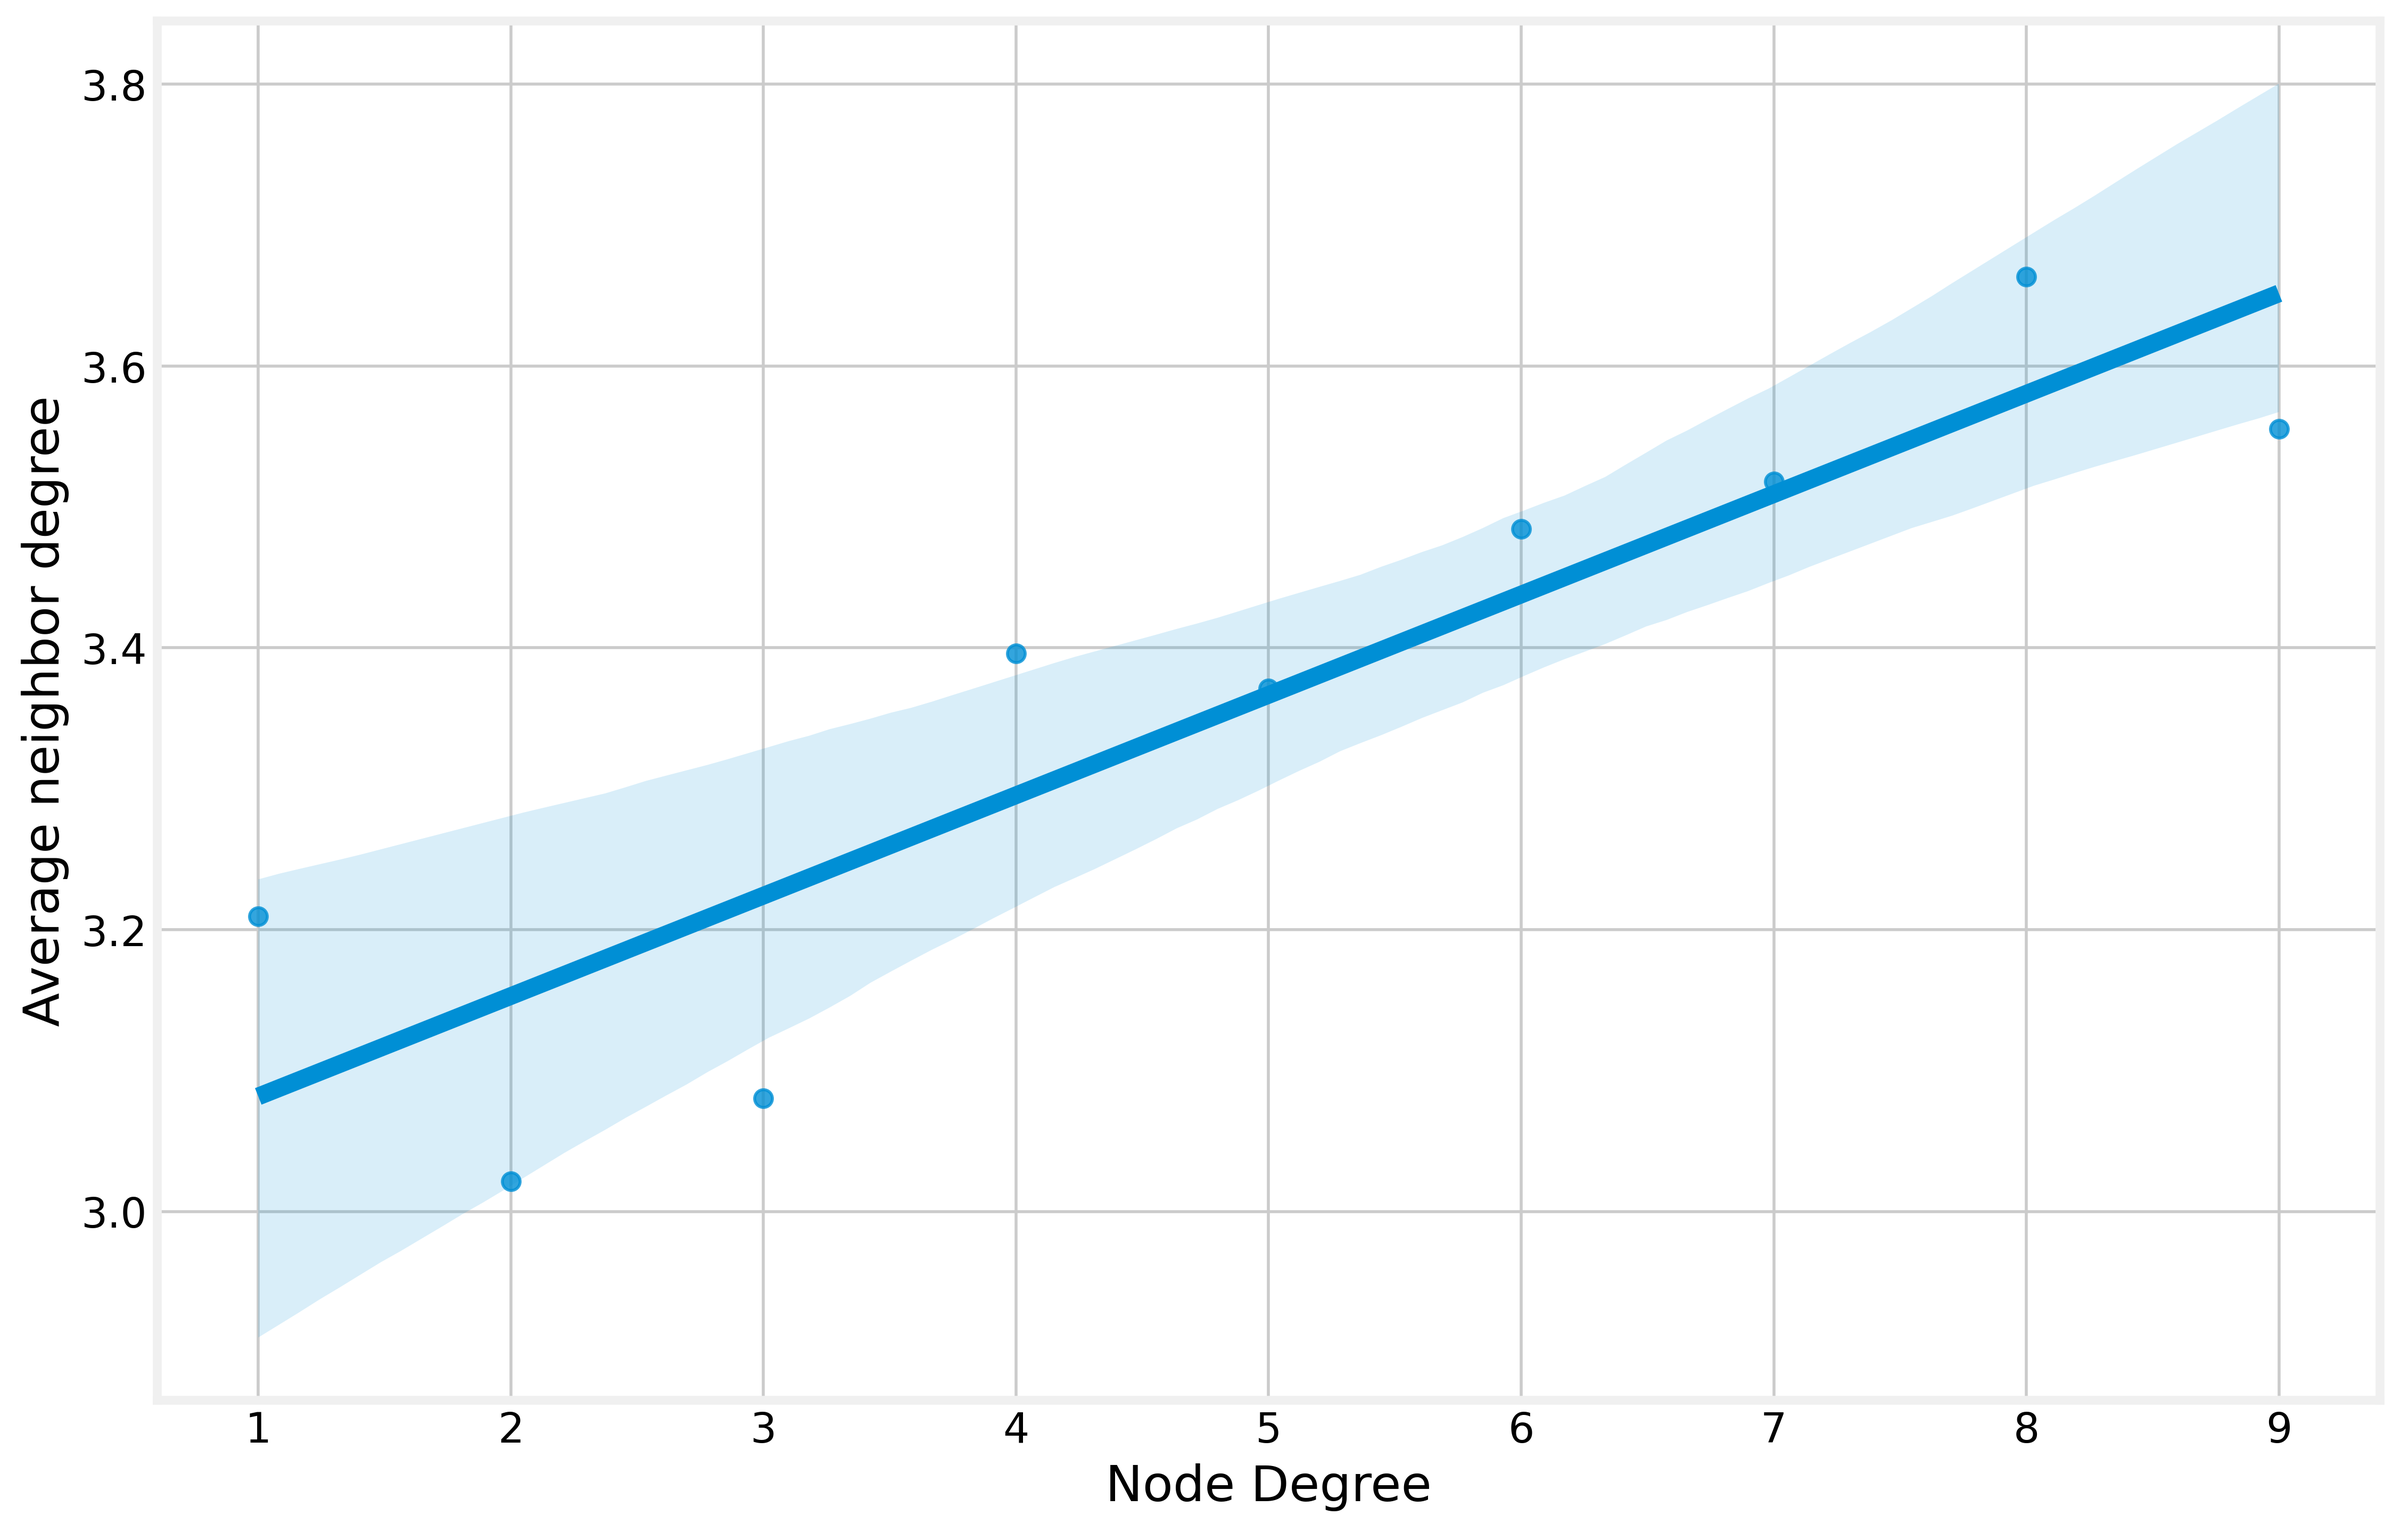
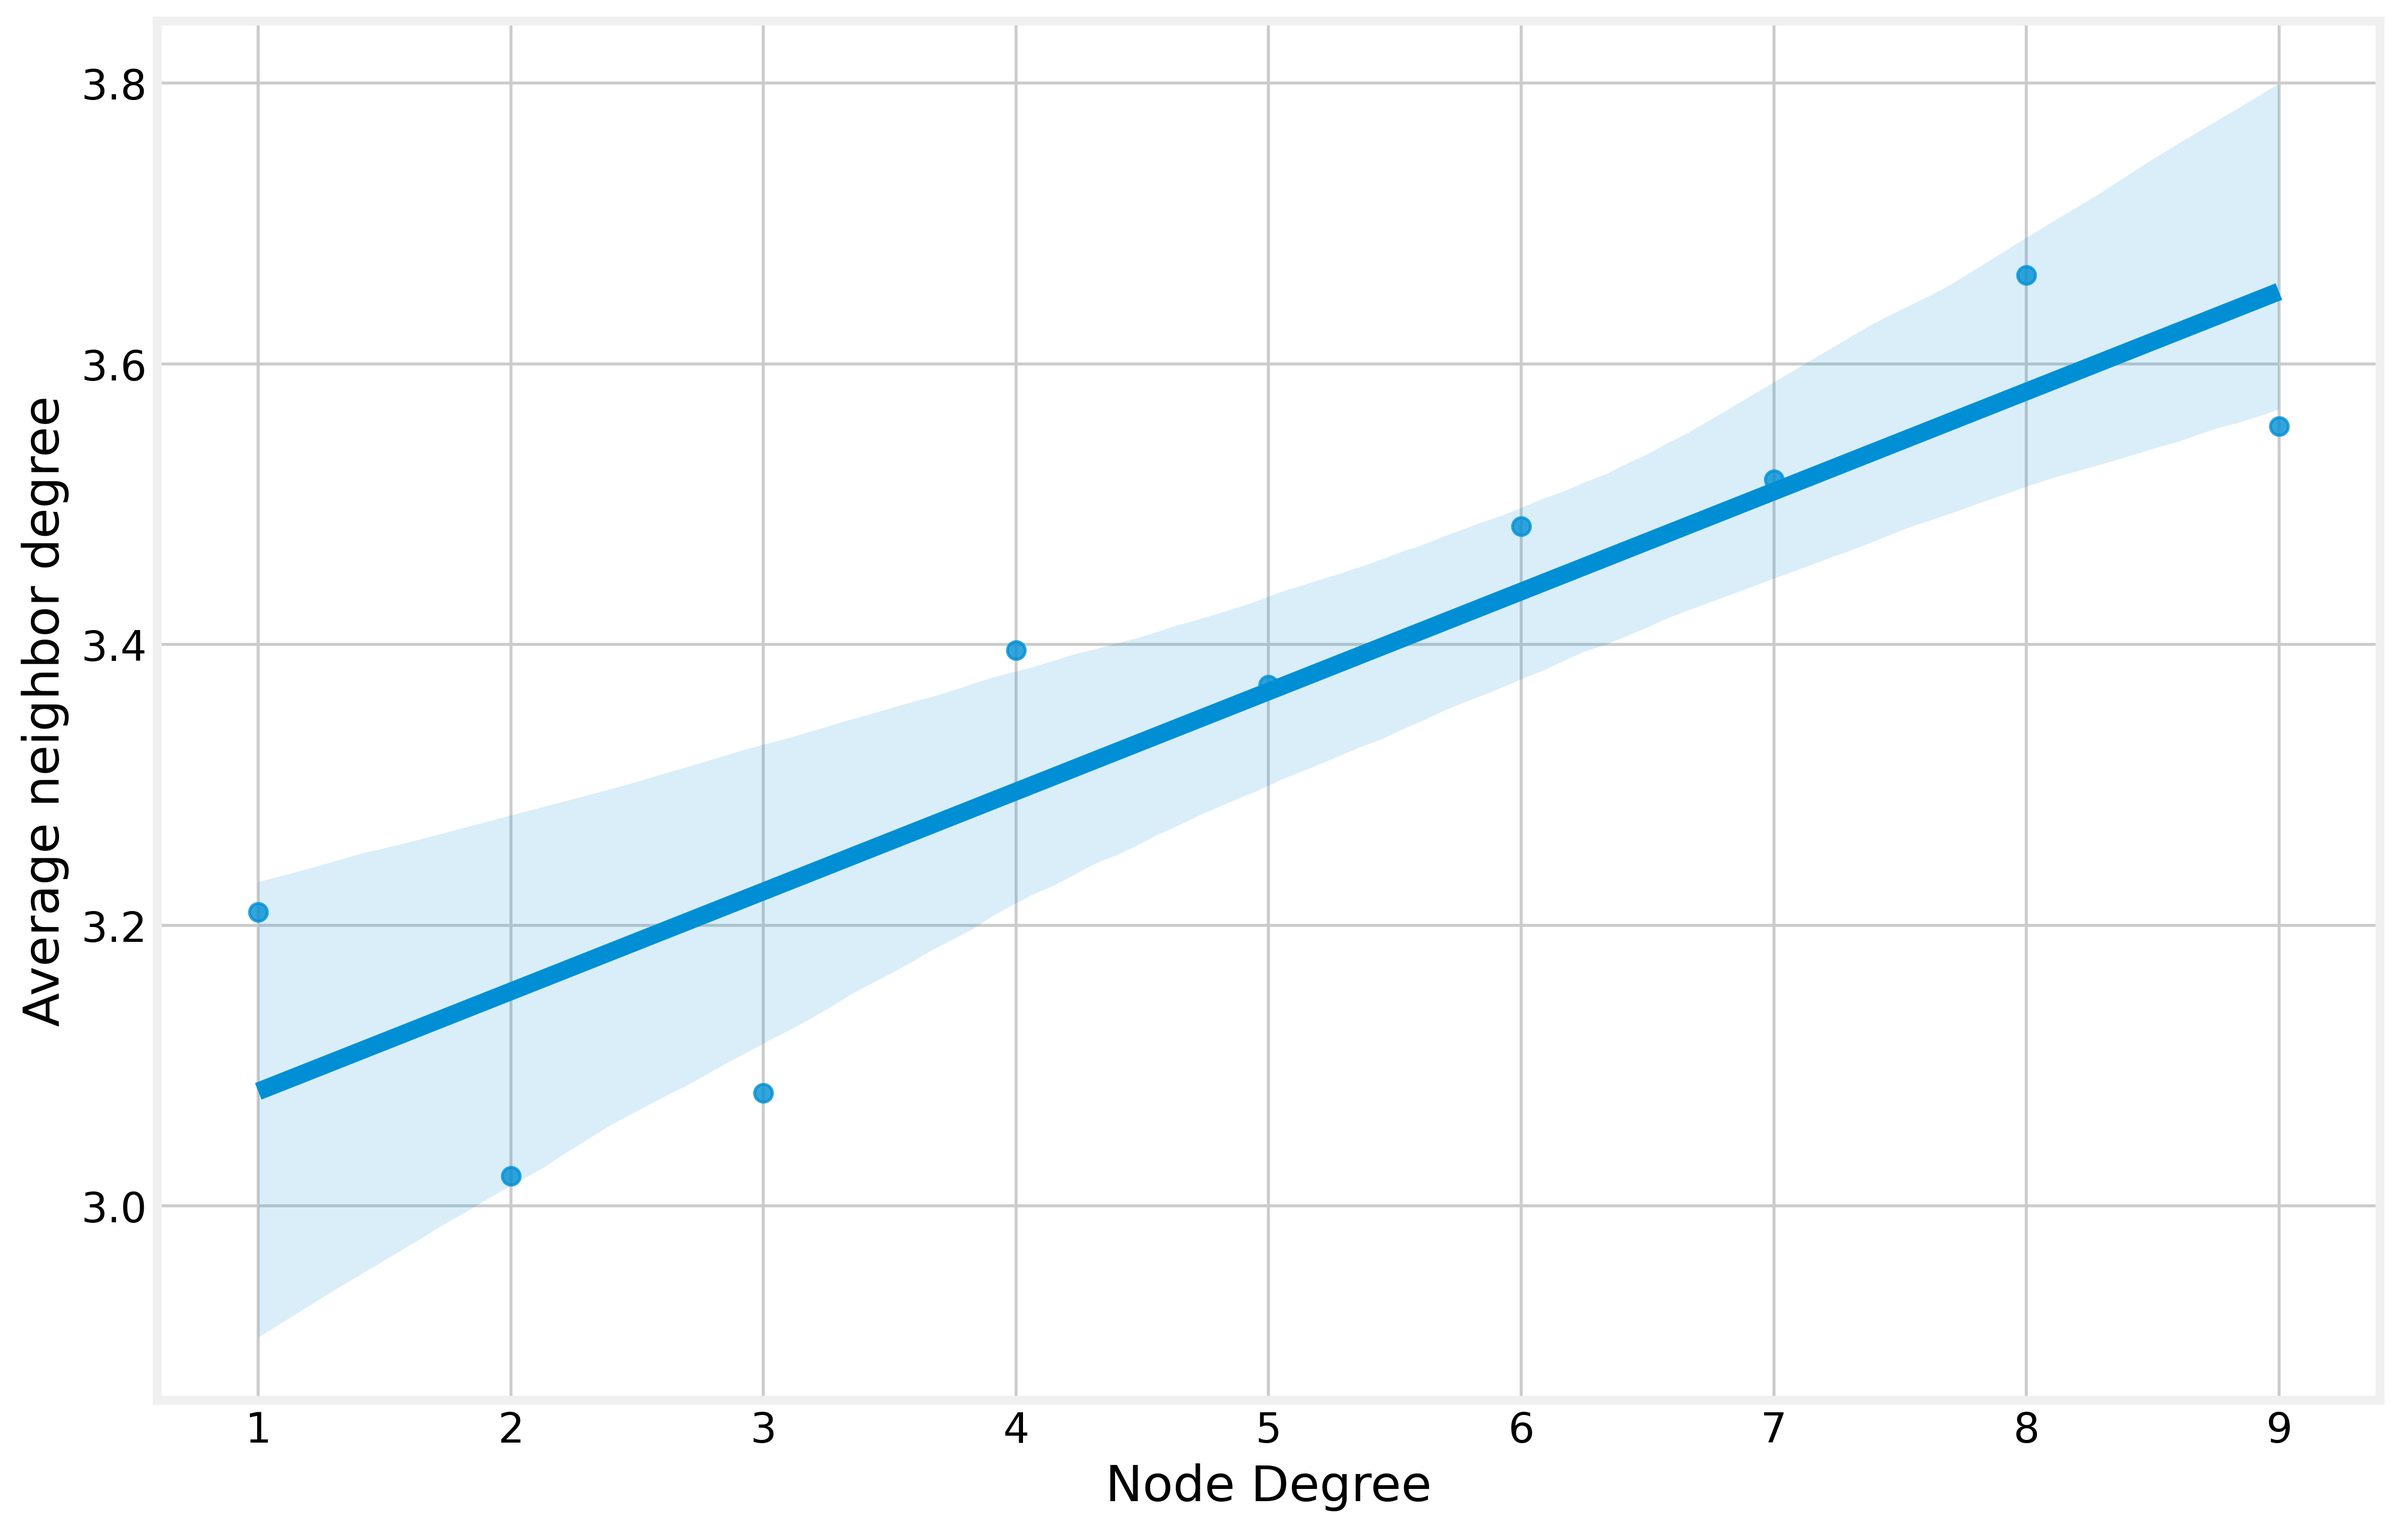
update code

diff --git a/small_worlds/main.py b/small_worlds/main.py
@@ -8,7 +8,7 @@ This dataset consists of 'circles' (or 'friends lists') from Facebook.
 Facebook data was collected from survey participants using Facebook app. 
 The dataset includes node features (profiles), circles, and ego networks.
 '''
-# G = nx.read_edgelist('./small_worlds/data/facebook_combined.txt', nodetype=int)
+G = nx.read_edgelist('./small_worlds/data/facebook_combined.txt', nodetype=int)
 
 '''
 Leitura do arquivo de arestas - Gnutella peer-to-peer network, August 4 2002
@@ -39,7 +39,7 @@ Leitura do arquivo de arestas - Pennsylvania road network
 This is a road network of Pennsylvania. 
 Intersections and endpoints are represented by nodes, and the roads connecting these intersections or endpoints are represented by undirected edges.
 '''
-G = nx.read_edgelist('./small_worlds/data/roadNet-PA.txt', nodetype=int)
+#G = nx.read_edgelist('./small_worlds/data/roadNet-PA.txt', nodetype=int)
 
 # Obtenha o número de vértices (nós) no grafo
 num_vertices = G.number_of_nodes()
@@ -94,4 +94,4 @@ ax.set_ylabel("Average neighbor degree")
 plt.savefig("degree_assortativity.png", format="png", dpi=400, bbox_inches="tight", transparent=True)
 
 # Mostre o gráfico (se desejado)
-plt.show()
+#plt.show()
